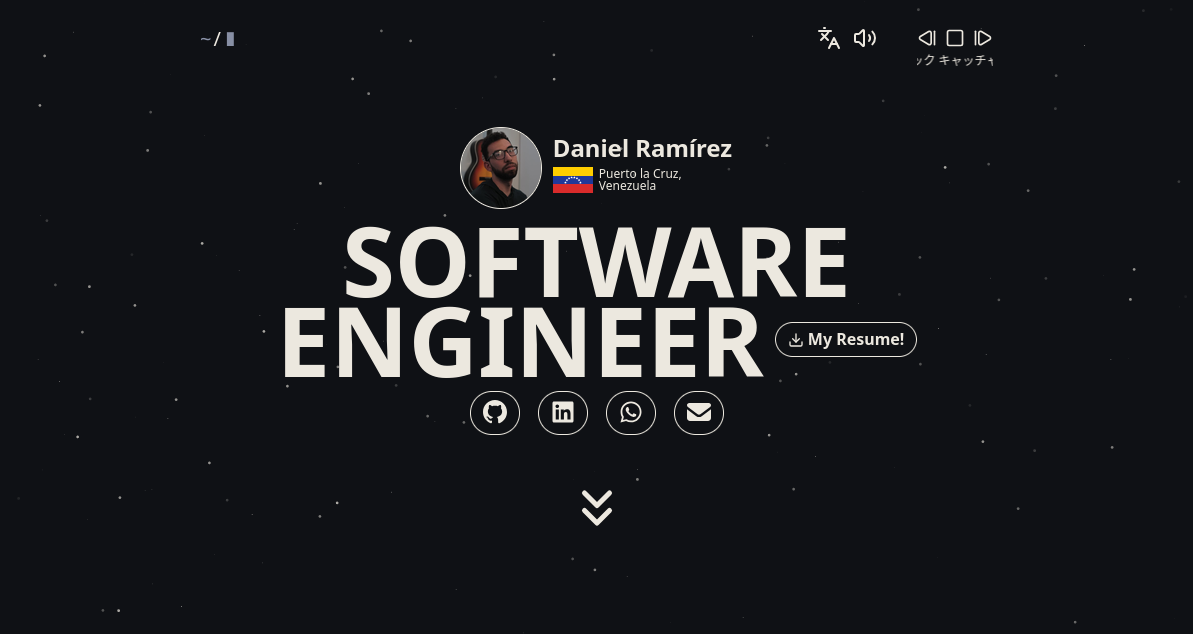
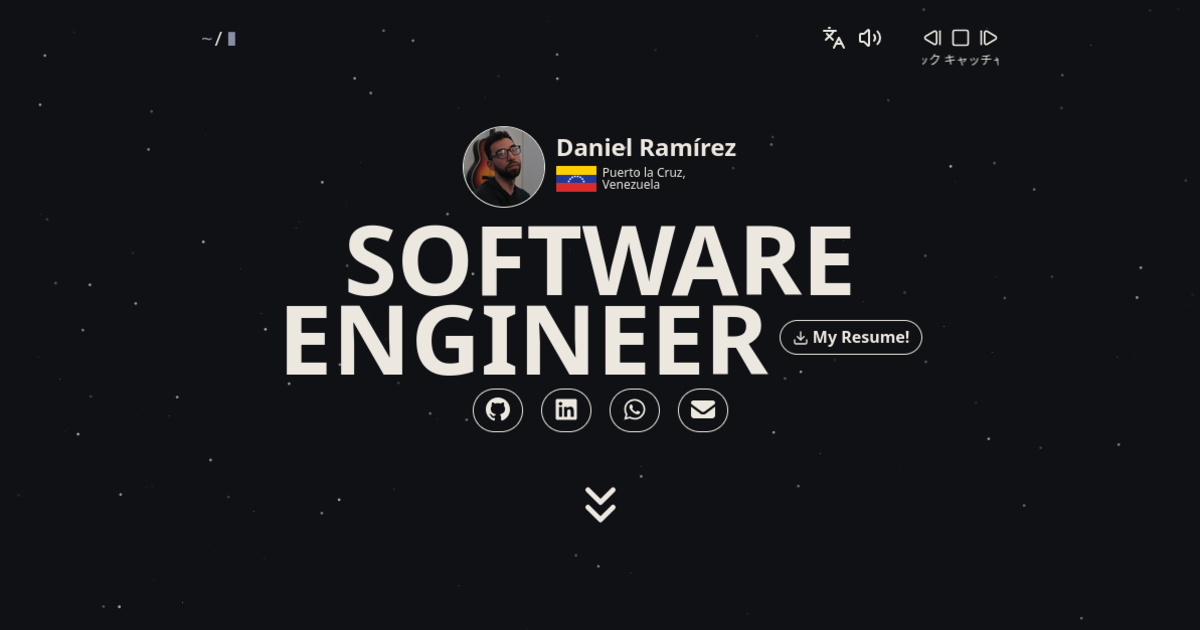
feat: update OpenGraph tags

diff --git a/index.html b/index.html
@@ -12,22 +12,23 @@
 
     <meta name="viewport" content="width=device-width, initial-scale=1.0" />
     
-    <title>Daniel Ramirez | Software Engineer</title>
-    <meta name="description" content="Software Engineer | Fullstack Developer (React, Next.js, TypeScript, Express.js) | C++ & DSA enthusiast | Exploring ML with Python | Computer Engineer grad" />
+    <title>DanielRamirez404 Portfolio | Software Engineer</title>
+    <meta name="description" content="Software Engineer | Fullstack (React, Next.js, TypeScript, Express.js) | C++ & DSA | Python | Computer Engineer grad" />
 
   <!-- Open Graph -->
     <meta property="og:type" content="website" />
     <meta property="og:url" content="https://danielramirez404.github.io/portfolio/" />
-    <meta property="og:title" content="Daniel Ramirez | Software Engineer" />
-    <meta property="og:description" content="Software Engineer | Fullstack Developer (React, Next.js, TypeScript, Express.js) | C++ & DSA enthusiast | Exploring ML with Python | Computer Engineer grad" />
+    <meta property="og:site_name" content="DanielRamirez404 Portfolio | Software Engineer" />
+    <meta property="og:title" content="DanielRamirez404 Portfolio | Software Engineer" />
+    <meta property="og:description" content="Software Engineer | Fullstack (React, Next.js, TypeScript, Express.js) | C++ & DSA | Python | Computer Engineer grad" />
     <meta property="og:image" content="https://danielramirez404.github.io/portfolio/og-image.png" />
     <meta property="og:image:width" content="1200" />
     <meta property="og:image:height" content="630" />
 
   <!-- Twitter -->
     <meta name="twitter:card" content="summary_large_image" />
-    <meta name="twitter:title" content="Daniel Ramirez | Software Engineer" />
-    <meta name="twitter:description" content="Software Engineer | Fullstack Developer (React, Next.js, TypeScript, Express.js) | C++ & DSA enthusiast | Exploring ML with Python | Computer Engineer grad" />
+    <meta name="twitter:title" content="DanielRamirez404 Portfolio | Software Engineer" />
+    <meta name="twitter:description" content="Software Engineer | Fullstack (React, Next.js, TypeScript, Express.js) | C++ & DSA | Python | Computer Engineer grad" />
     <meta name="twitter:image" content="https://danielramirez404.github.io/portfolio/og-image.png" />
 
   </head>
